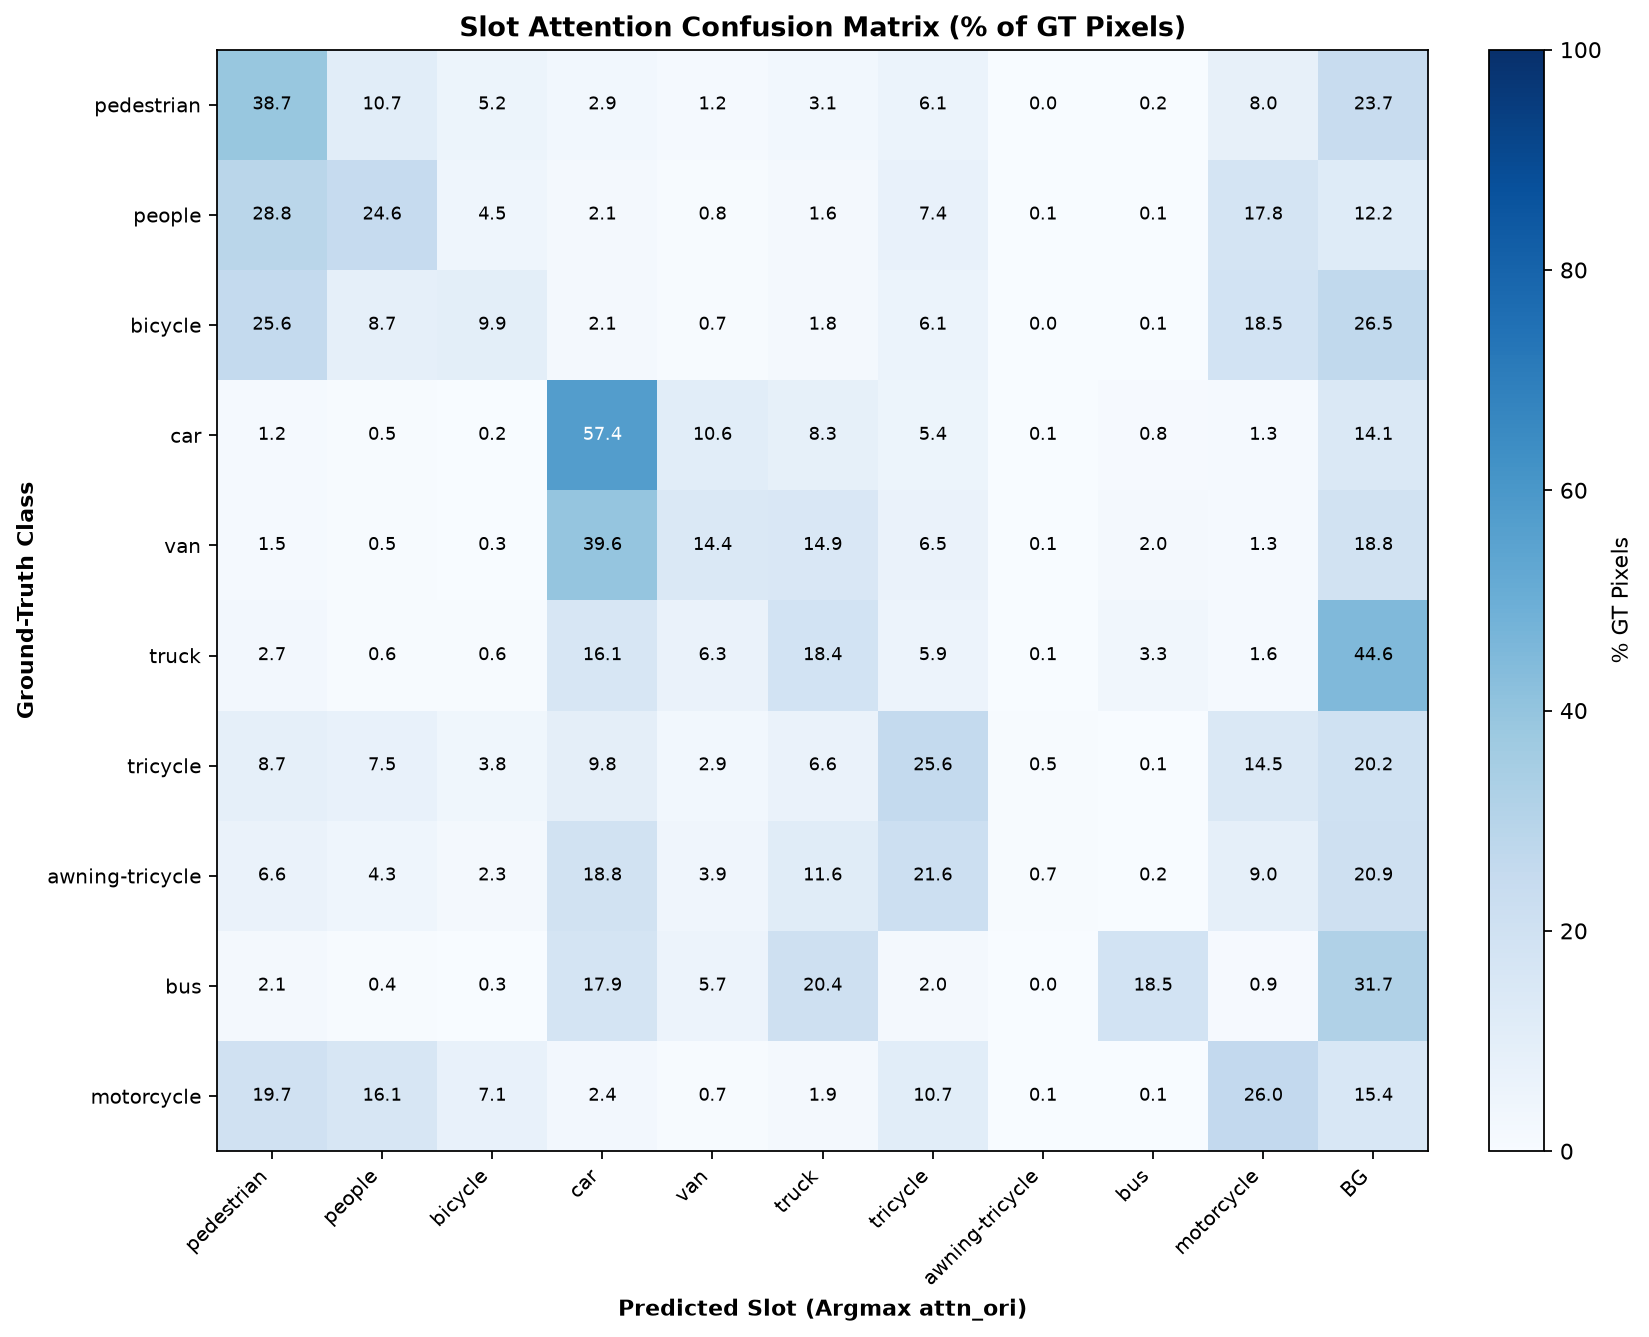
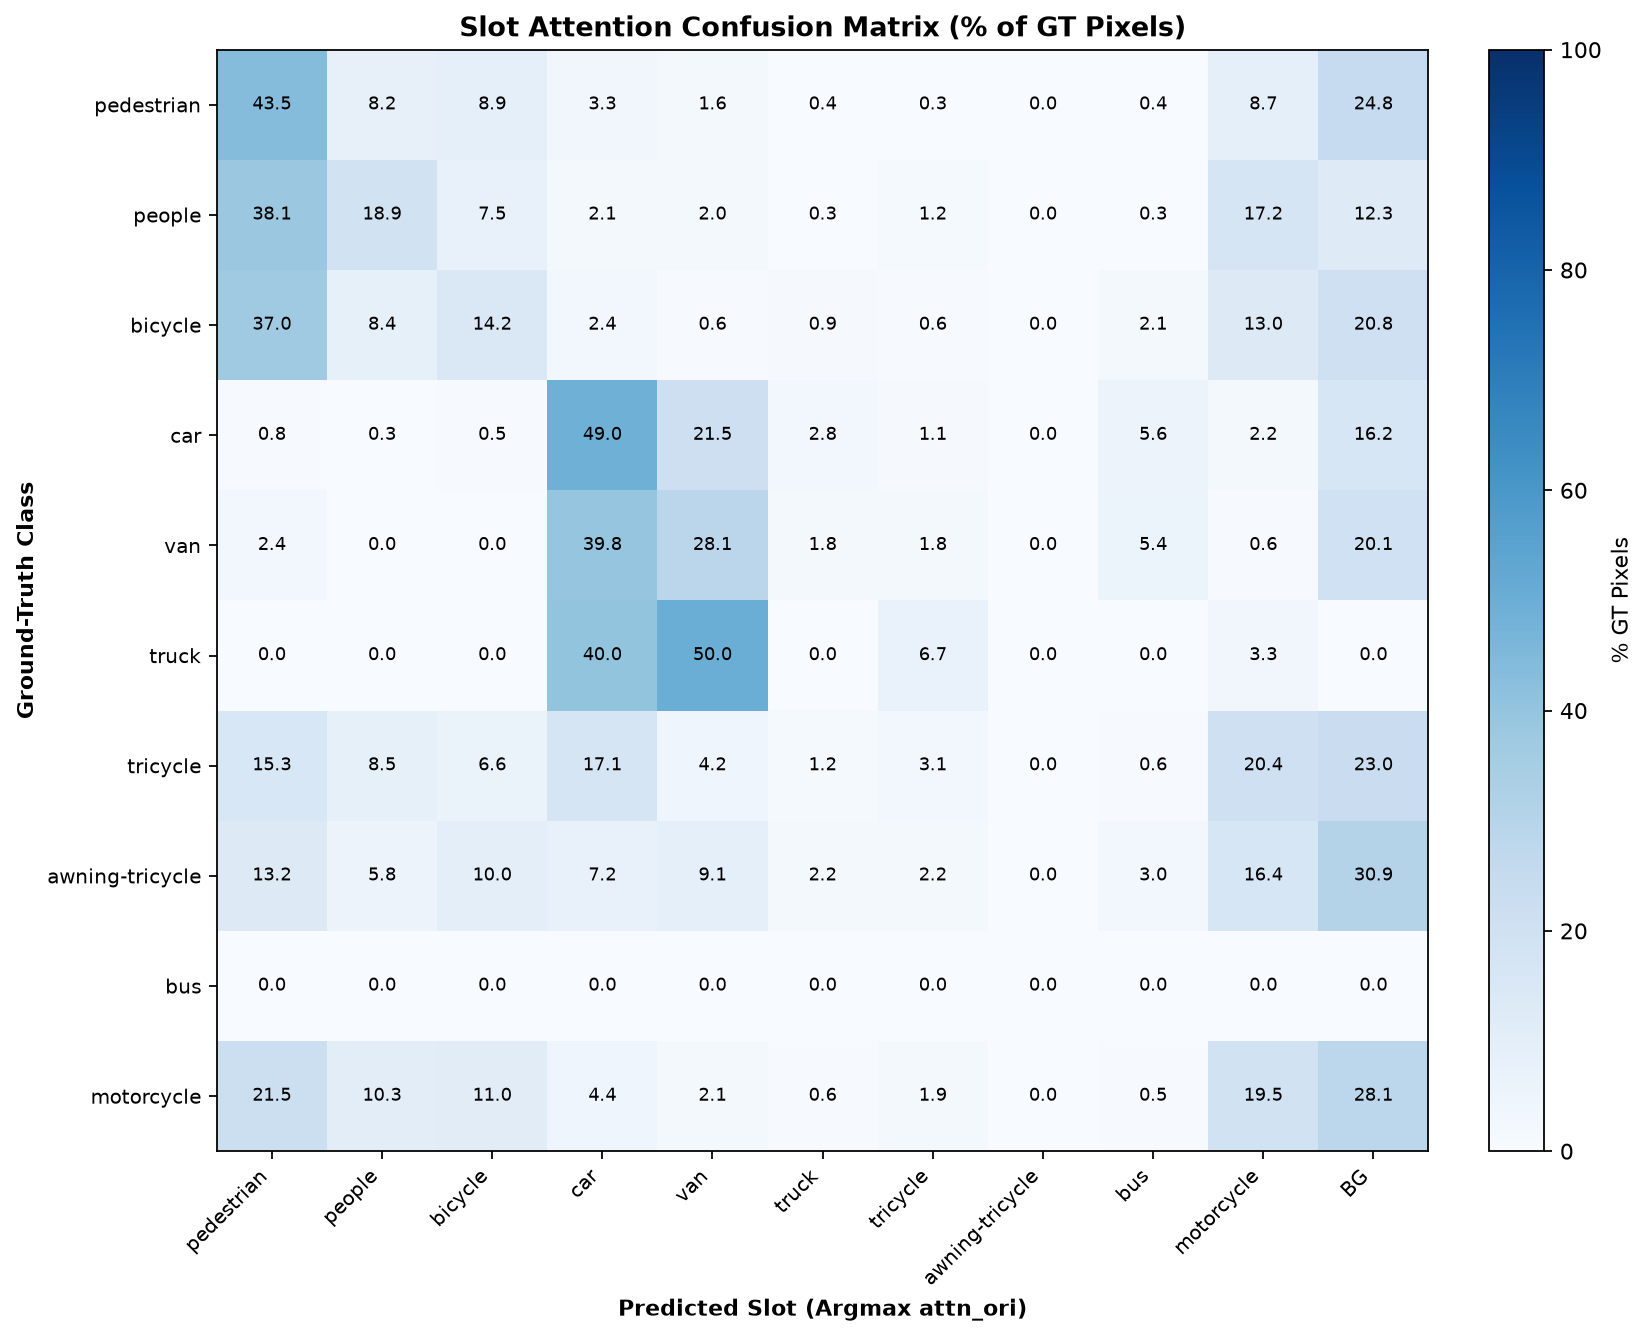
updating deformable slot

diff --git a/VisDrone_deformable_slot/output_val_deformable/dashboard.html b/VisDrone_deformable_slot/output_val_deformable/dashboard.html
@@ -15,9 +15,9 @@
   th { background: #f0f4f8; }
 </style></head><body>
 <h1>VisDroneYOLO11DeformableSlot — Component & Deformable Patch Validation</h1>
-<h2>1. End-to-End Detection & Stratified Recall</h2><div class='kpi-grid'><div class='kpi'><div class='lbl'>mAP50</div><div class='val'>0.2124</div></div><div class='kpi'><div class='lbl'>mAP50_95</div><div class='val'>0.1106</div></div><div class='kpi'><div class='lbl'>mAP50_tiny</div><div class='val'>0.0292</div></div><div class='kpi'><div class='lbl'>mAP50_95_tiny</div><div class='val'>0.0069</div></div><div class='kpi'><div class='lbl'>mAP50_small</div><div class='val'>0.0892</div></div><div class='kpi'><div class='lbl'>mAP50_95_small</div><div class='val'>0.0345</div></div><div class='kpi'><div class='lbl'>mAP50_95_medium</div><div class='val'>0.1243</div></div><div class='kpi'><div class='lbl'>mAP50_95_large</div><div class='val'>0.1840</div></div><div class='kpi'><div class='lbl'>precision_c25</div><div class='val'>0.7541</div></div><div class='kpi'><div class='lbl'>recall_c25</div><div class='val'>0.2500</div></div><div class='kpi'><div class='lbl'>f1_c25</div><div class='val'>0.3755</div></div><div class='kpi'><div class='lbl'>rec_tiny_c25</div><div class='val'>0.0140</div></div><div class='kpi'><div class='lbl'>rec_small_c25</div><div class='val'>0.0930</div></div><div class='kpi'><div class='lbl'>rec_border_c25</div><div class='val'>0.2341</div></div><div class='kpi'><div class='lbl'>rec_interior_c25</div><div class='val'>0.2544</div></div><div class='kpi'><div class='lbl'>latency_ms</div><div class='val'>87.0497</div></div></div>
-<h2>2. Dual Ablation (Deformable Micro-Patch & Slot FiLM)</h2><div class='kpi-grid'><div class='kpi'><div class='lbl'>full_mAP50</div><div class='val'>0.2124</div></div><div class='kpi'><div class='lbl'>patch_off_mAP50</div><div class='val'>0.2010</div></div><div class='kpi'><div class='lbl'>both_off_mAP50</div><div class='val'>0.1481</div></div><div class='kpi'><div class='lbl'>patch_delta_mAP50</div><div class='val'>0.0115</div></div><div class='kpi'><div class='lbl'>patch_delta_mAP50_tiny</div><div class='val'>0.0119</div></div><div class='kpi'><div class='lbl'>patch_delta_mAP50_small</div><div class='val'>0.0096</div></div><div class='kpi'><div class='lbl'>film_delta_mAP50</div><div class='val'>0.0528</div></div><div class='kpi'><div class='lbl'>total_delta_mAP50</div><div class='val'>0.0643</div></div></div>
-<h2>3. Deformable High-Res Micro-Patch Diagnostics</h2><div class='kpi-grid'><div class='kpi'><div class='lbl'>patch_fg_hit_rate_pct</div><div class='val'>62.8003</div></div><div class='kpi'><div class='lbl'>patch_tiny_gt_coverage_pct</div><div class='val'>54.3044</div></div><div class='kpi'><div class='lbl'>patch_small_gt_coverage_pct</div><div class='val'>59.7842</div></div><div class='kpi'><div class='lbl'>patch_border_gt_coverage_pct</div><div class='val'>38.2186</div></div><div class='kpi'><div class='lbl'>offset_mean_cells</div><div class='val'>0.8582</div></div><div class='kpi'><div class='lbl'>offset_max_cells</div><div class='val'>1.6941</div></div><div class='kpi'><div class='lbl'>scale_mean_factor</div><div class='val'>0.9657</div></div><div class='kpi'><div class='lbl'>scale_std_factor</div><div class='val'>0.2511</div></div><div class='kpi'><div class='lbl'>p3_box_delta_ratio</div><div class='val'>0.0552</div></div><div class='kpi'><div class='lbl'>p3_cls_delta_ratio</div><div class='val'>0.1256</div></div><div class='kpi'><div class='lbl'>p3_box_fisher_delta</div><div class='val'>-0.0019</div></div><div class='kpi'><div class='lbl'>p3_cls_fisher_delta</div><div class='val'>-0.0040</div></div><div class='kpi'><div class='lbl'>mufasa_iter_gate</div><div class='val'>0.0178</div></div></div>
-<div class="card"><h2>4. Component-by-Component Feature Progression</h2><table><tr><th>component</th><th>l2_mean</th><th>small_ratio</th><th>medium_ratio</th><th>large_ratio</th><th>full_fisher</th><th>pca_fisher</th><th>class_cos_sep</th><th>fg_mass_pct</th></tr><tr><td>backbone.feat4 (//8)</td><td>5.9156</td><td>1.6669</td><td>1.2375</td><td>1.064</td><td>0.0364</td><td>0.0719</td><td>0.0579</td><td>84.0098</td></tr><tr><td>backbone.feat6 (//16)</td><td>6.7596</td><td>1.4573</td><td>1.2409</td><td>1.1727</td><td>0.0777</td><td>0.1369</td><td>0.0899</td><td>85.8576</td></tr><tr><td>backbone.feat10 (//32)</td><td>8.0952</td><td>0.6853</td><td>0.842</td><td>0.7266</td><td>0.8057</td><td>0.9118</td><td>0.1463</td><td>81.269</td></tr><tr><td>neck.P3 (//8)</td><td>4.293</td><td>1.1145</td><td>0.9636</td><td>0.953</td><td>0.3125</td><td>0.6648</td><td>0.1141</td><td>81.8811</td></tr><tr><td>neck.P4 (//16)</td><td>6.1254</td><td>1.033</td><td>0.9319</td><td>0.9123</td><td>0.297</td><td>0.6899</td><td>0.1216</td><td>82.5565</td></tr><tr><td>neck.P5 (//32)</td><td>8.9539</td><td>0.9463</td><td>0.8827</td><td>0.8572</td><td>0.5096</td><td>0.8949</td><td>0.1233</td><td>83.5438</td></tr><tr><td>slot.cls_P3 (FiLM)</td><td>4.8384</td><td>1.2457</td><td>1.1017</td><td>1.051</td><td>0.4101</td><td>0.7351</td><td>0.0719</td><td>82.9452</td></tr><tr><td>patch.box_P3 (Deform+HR)</td><td>4.2903</td><td>1.1141</td><td>0.963</td><td>0.9523</td><td>0.3106</td><td>0.6611</td><td>0.1147</td><td>81.8731</td></tr><tr><td>patch.cls_P3 (Deform+HR)</td><td>4.8803</td><td>1.2526</td><td>1.111</td><td>1.0613</td><td>0.4061</td><td>0.7494</td><td>0.0729</td><td>83.0753</td></tr></table></div>
+<h2>1. End-to-End Detection & Stratified Recall</h2><div class='kpi-grid'><div class='kpi'><div class='lbl'>mAP50</div><div class='val'>0.1653</div></div><div class='kpi'><div class='lbl'>mAP50_95</div><div class='val'>0.0775</div></div><div class='kpi'><div class='lbl'>mAP50_tiny</div><div class='val'>0.0000</div></div><div class='kpi'><div class='lbl'>mAP50_95_tiny</div><div class='val'>0.0000</div></div><div class='kpi'><div class='lbl'>mAP50_small</div><div class='val'>0.0748</div></div><div class='kpi'><div class='lbl'>mAP50_95_small</div><div class='val'>0.0236</div></div><div class='kpi'><div class='lbl'>mAP50_95_medium</div><div class='val'>0.0902</div></div><div class='kpi'><div class='lbl'>mAP50_95_large</div><div class='val'>0.1815</div></div><div class='kpi'><div class='lbl'>precision_c25</div><div class='val'>0.7524</div></div><div class='kpi'><div class='lbl'>recall_c25</div><div class='val'>0.1220</div></div><div class='kpi'><div class='lbl'>f1_c25</div><div class='val'>0.2100</div></div><div class='kpi'><div class='lbl'>rec_tiny_c25</div><div class='val'>0.0000</div></div><div class='kpi'><div class='lbl'>rec_small_c25</div><div class='val'>0.0092</div></div><div class='kpi'><div class='lbl'>rec_border_c25</div><div class='val'>0.0561</div></div><div class='kpi'><div class='lbl'>rec_interior_c25</div><div class='val'>0.1351</div></div><div class='kpi'><div class='lbl'>latency_ms</div><div class='val'>98.6594</div></div></div>
+<h2>2. Dual Ablation (Deformable Micro-Patch & Slot FiLM)</h2><div class='kpi-grid'><div class='kpi'><div class='lbl'>full_mAP50</div><div class='val'>0.1653</div></div><div class='kpi'><div class='lbl'>patch_off_mAP50</div><div class='val'>0.1589</div></div><div class='kpi'><div class='lbl'>both_off_mAP50</div><div class='val'>0.1537</div></div><div class='kpi'><div class='lbl'>patch_delta_mAP50</div><div class='val'>0.0064</div></div><div class='kpi'><div class='lbl'>patch_delta_mAP50_tiny</div><div class='val'>0.0000</div></div><div class='kpi'><div class='lbl'>patch_delta_mAP50_small</div><div class='val'>0.0052</div></div><div class='kpi'><div class='lbl'>film_delta_mAP50</div><div class='val'>0.0052</div></div><div class='kpi'><div class='lbl'>total_delta_mAP50</div><div class='val'>0.0116</div></div></div>
+<h2>3. Deformable High-Res Micro-Patch Diagnostics</h2><div class='kpi-grid'><div class='kpi'><div class='lbl'>patch_fg_hit_rate_pct</div><div class='val'>57.0833</div></div><div class='kpi'><div class='lbl'>patch_tiny_gt_coverage_pct</div><div class='val'>60.0985</div></div><div class='kpi'><div class='lbl'>patch_small_gt_coverage_pct</div><div class='val'>70.0132</div></div><div class='kpi'><div class='lbl'>patch_border_gt_coverage_pct</div><div class='val'>64.0187</div></div><div class='kpi'><div class='lbl'>offset_mean_cells</div><div class='val'>0.8658</div></div><div class='kpi'><div class='lbl'>offset_max_cells</div><div class='val'>1.7463</div></div><div class='kpi'><div class='lbl'>scale_mean_factor</div><div class='val'>0.9095</div></div><div class='kpi'><div class='lbl'>scale_std_factor</div><div class='val'>0.2336</div></div><div class='kpi'><div class='lbl'>p3_box_delta_ratio</div><div class='val'>0.1109</div></div><div class='kpi'><div class='lbl'>p3_cls_delta_ratio</div><div class='val'>0.1450</div></div><div class='kpi'><div class='lbl'>p3_box_fisher_delta</div><div class='val'>-0.0094</div></div><div class='kpi'><div class='lbl'>p3_cls_fisher_delta</div><div class='val'>-0.0183</div></div><div class='kpi'><div class='lbl'>mufasa_iter_gate</div><div class='val'>-0.0110</div></div></div>
+<div class="card"><h2>4. Component-by-Component Feature Progression</h2><table><tr><th>component</th><th>l2_mean</th><th>small_ratio</th><th>medium_ratio</th><th>large_ratio</th><th>full_fisher</th><th>pca_fisher</th><th>class_cos_sep</th><th>fg_mass_pct</th></tr><tr><td>backbone.feat4 (//8)</td><td>5.7578</td><td>nan</td><td>1.0139</td><td>1.0894</td><td>0.0295</td><td>0.0532</td><td>0.0297</td><td>74.2341</td></tr><tr><td>backbone.feat6 (//16)</td><td>7.5523</td><td>nan</td><td>1.0886</td><td>1.1084</td><td>0.0677</td><td>0.1157</td><td>0.0339</td><td>75.2295</td></tr><tr><td>backbone.feat10 (//32)</td><td>8.4081</td><td>nan</td><td>0.8917</td><td>0.7824</td><td>0.9808</td><td>0.7681</td><td>0.0785</td><td>71.9747</td></tr><tr><td>neck.P3 (//8)</td><td>3.5334</td><td>nan</td><td>0.904</td><td>0.9581</td><td>0.4323</td><td>0.5836</td><td>0.0832</td><td>71.4754</td></tr><tr><td>neck.P4 (//16)</td><td>5.8282</td><td>nan</td><td>0.8606</td><td>0.8841</td><td>0.4413</td><td>0.6037</td><td>0.0762</td><td>71.137</td></tr><tr><td>neck.P5 (//32)</td><td>8.3244</td><td>nan</td><td>0.9218</td><td>0.9438</td><td>0.4378</td><td>0.5908</td><td>0.0761</td><td>75.6886</td></tr><tr><td>slot.cls_P3 (FiLM)</td><td>4.2976</td><td>nan</td><td>1.1042</td><td>1.2224</td><td>0.6802</td><td>0.6336</td><td>0.0616</td><td>75.6764</td></tr><tr><td>patch.box_P3 (Deform+HR)</td><td>3.5416</td><td>nan</td><td>0.9031</td><td>0.9615</td><td>0.4229</td><td>0.5828</td><td>0.0839</td><td>71.5573</td></tr><tr><td>patch.cls_P3 (Deform+HR)</td><td>4.3344</td><td>nan</td><td>1.1099</td><td>1.2369</td><td>0.662</td><td>0.6402</td><td>0.0618</td><td>75.9258</td></tr></table></div>
 <div class='card'><h3>Deformable High-Res Micro-Patch Inspection</h3><img src='chart_deformable_patches.png' style='max-width:100%;'></div><div class='card'><h3>Slot Attention Confusion Matrix</h3><img src='chart_slot_confusion_matrix.png' style='max-width:100%;'></div>
 </body></html>

diff --git a/VisDrone_yolov11/dataset.py b/VisDrone_yolov11/dataset.py
@@ -75,8 +75,10 @@ class VisDroneLMDBDataset(BaseDataset):
         self.cache_images = cache_images.lower() if isinstance(cache_images, str) else None
         self.cache_size = tuple(cache_size) if cache_size is not None else self._infer_resize_from_pipeline(pipeline)
         self.augment = bool(augment) and (self.split not in ("val", "test")) and (not test_mode)
-        self.mosaic_prob = float(mosaic_prob) if self.augment else 0.0
-        self.mosaic_rare_prob = float(mosaic_rare_prob) if self.mosaic_prob > 0.0 else 0.0
+        # Shared-memory scalar so WarmupLRHook & CloseMosaicHook propagate immediately to persistent_workers!
+        init_mp = float(mosaic_prob) if self.augment else 0.0
+        self._mosaic_prob_shared = torch.tensor([init_mp], dtype=torch.float32).share_memory_()
+        self.mosaic_rare_prob = float(mosaic_rare_prob) if init_mp > 0.0 else 0.0
         self.mosaic_rare_classes = list(mosaic_rare_classes) if mosaic_rare_classes is not None else None
         self._rare_class_pools: Dict[int, List[int]] = {}
         self._rare_class_weights: List[float] = []
@@ -101,6 +103,21 @@ class VisDroneLMDBDataset(BaseDataset):
             self._build_ram_cache()
         if self.mosaic_rare_prob > 0.0 and len(self.data_infos) >= 4:
             self._build_rare_class_pools()
+
+    @property
+    def mosaic_prob(self) -> float:
+        buf = self.__dict__.get("_mosaic_prob_shared")
+        if buf is not None:
+            return float(buf[0].item())
+        return float(self.__dict__.get("_mosaic_prob_fallback", 0.0))
+
+    @mosaic_prob.setter
+    def mosaic_prob(self, value: float) -> None:
+        buf = self.__dict__.get("_mosaic_prob_shared")
+        if buf is not None:
+            buf[0] = float(value)
+        else:
+            self.__dict__["_mosaic_prob_fallback"] = float(value)
 
     @staticmethod
     def _infer_resize_from_pipeline(pipeline: Optional[Any]) -> Tuple[int, int]:
